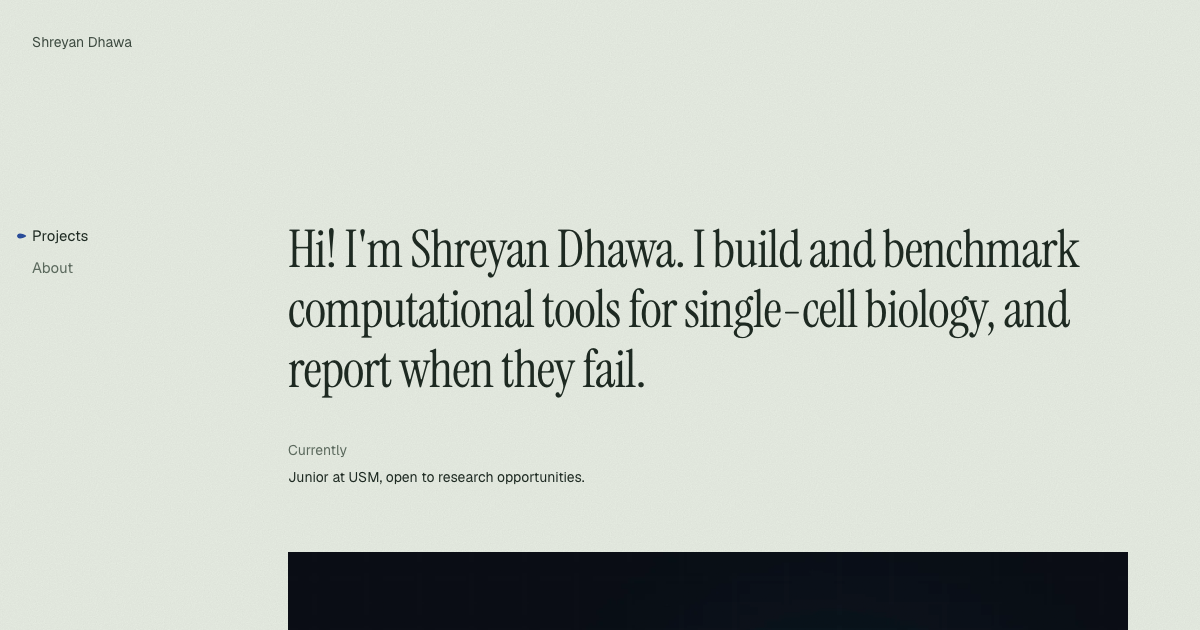
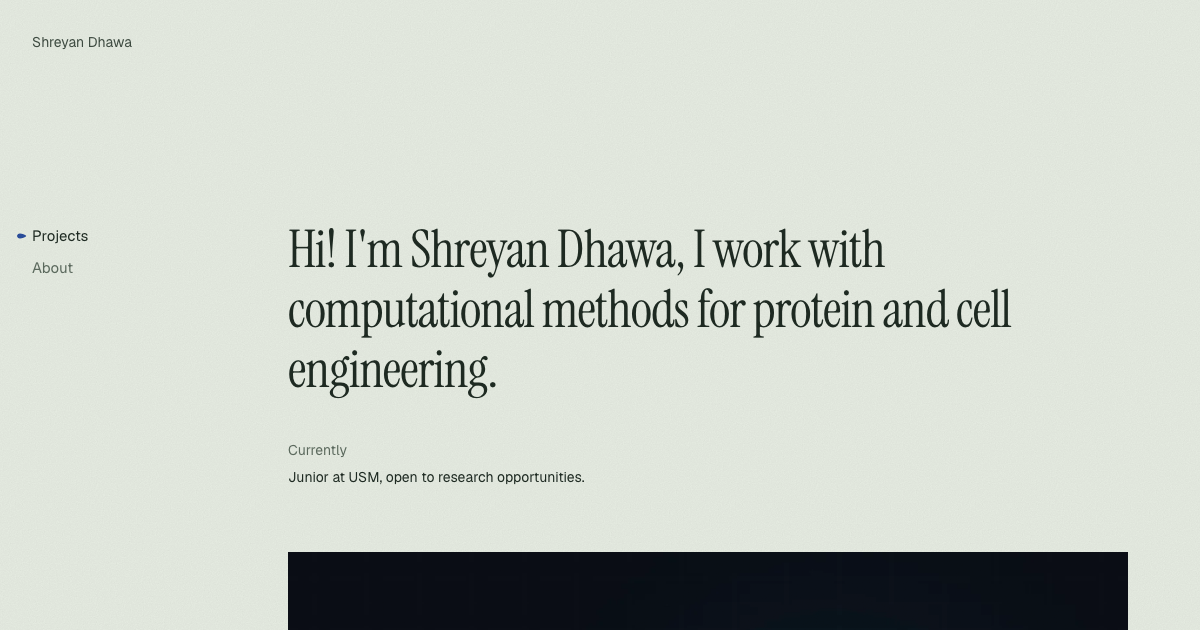
Restore the original home headline
Put back "Hi! I'm Shreyan Dhawa, I work with computational methods for
protein and cell engineering." and regenerate og.png. The meta
description is unchanged.

Changed region(s): [[0.2158, 0.4524, 0.8942, 0.6333], [0.5858, 0.3619, 0.8942, 0.4222]]

diff --git a/content/site.ts b/content/site.ts
@@ -2,7 +2,7 @@
 
 export type Row = { label: string; value: string[]; href?: string };
 
-const headline = "Hi! I'm Shreyan Dhawa. I build and benchmark computational tools for single-cell biology, and report when they fail.";
+const headline = "Hi! I'm Shreyan Dhawa, I work with computational methods for protein and cell engineering.";
 
 export const site = {
   name: "Shreyan Dhawa",
